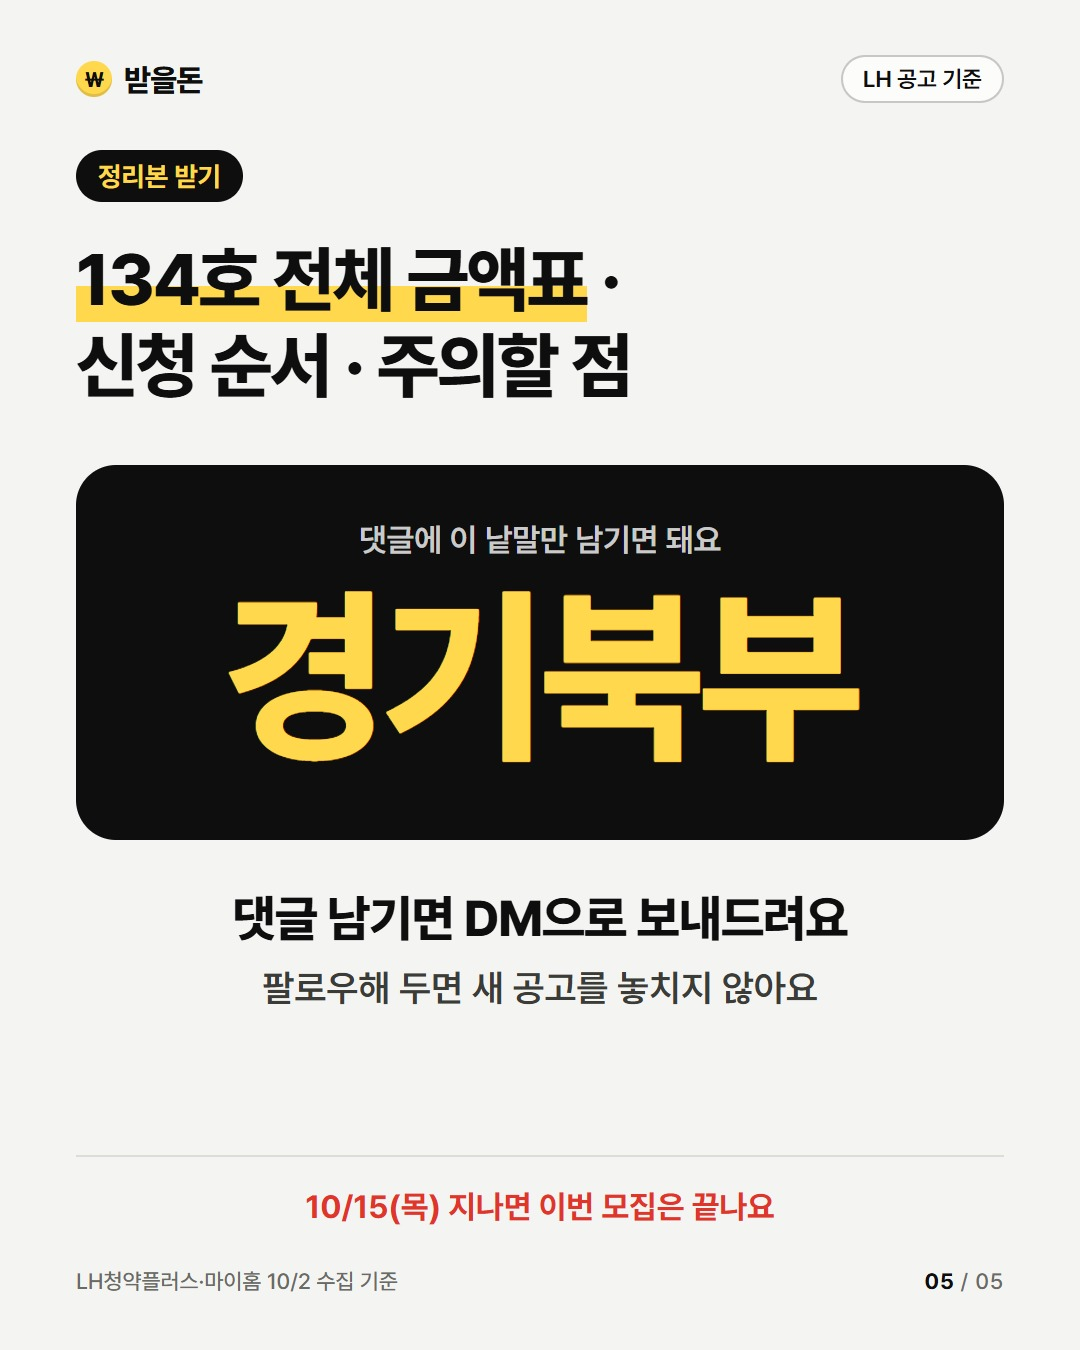
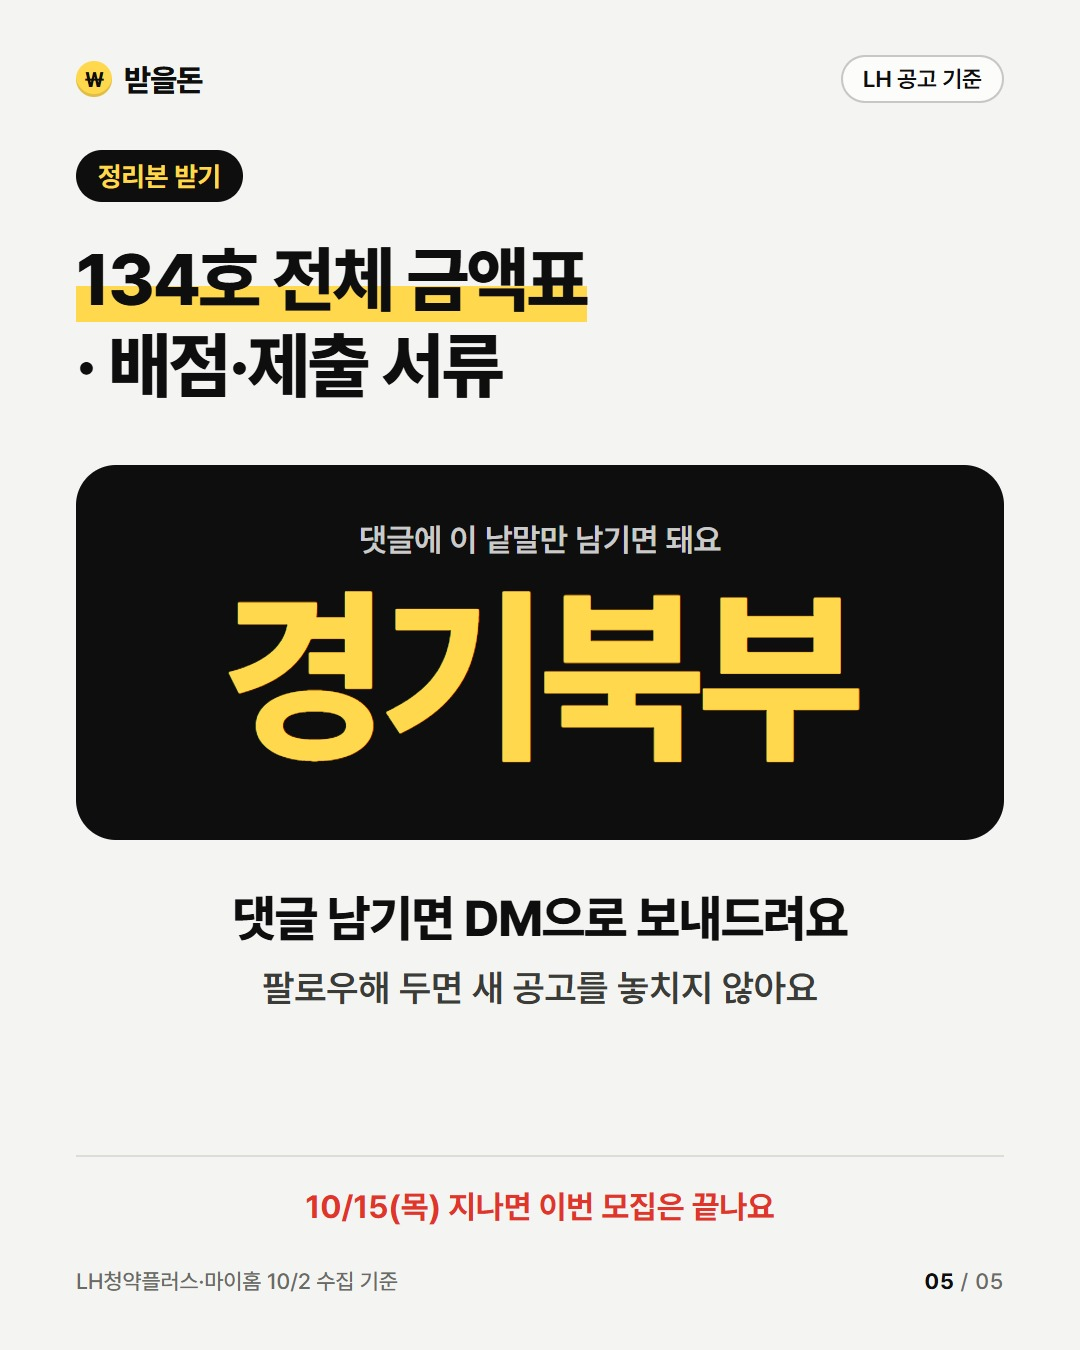
자료 페이지 2015122300020755

Changed region(s): [[0.0611, 0.2489, 0.5806, 0.3111], [0.55, 0.1867, 0.5806, 0.2178]]

diff --git a/n/2015122300020755.html b/n/2015122300020755.html
@@ -12,7 +12,8 @@ ul{padding-left:1.2em}li{margin:.35em 0}.ref{font-size:.8em;color:#777;backgroun
 <h2>접수 방법</h2><ul><li><b>인터넷</b> 10/15(목) 오후 4시 마감 <span class="ref">공고문 5쪽</span></li><li><b>우편</b> 10/15(목) 마감 · (11787) 경기도 의정부시 산단로76번길 116 1층 LH 경기북부지역본부 주거서비스팀 <span class="ref">공고문 6쪽</span></li></ul>
 <h2>신청 순서</h2><ol><li>LH청약플러스(apply.lh.or.kr) 접속</li><li>공고 찾아 열기 → 첨부 공고문(PDF) 확인</li><li>인터넷 접수 — 10/15(목) 오후 4시까지</li></ol>
 <h2>놓치기 쉬운 것</h2><ul><li>마감일은 오후 4시 마감, 신청 후 내용 변경 불가 <span class="ref">공고문 5쪽</span></li><li>우편 신청은 65세 이상 고령자 등만, 기한 내 도착한 등기만 인정 <span class="ref">공고문 5쪽</span></li></ul>
-<h2>공고문 원본</h2><ul><li><a href="https://apply.lh.or.kr/lhapply/lhFile.do?fileid=68755904">공고문 PDF (LH)</a></li><li><a href="https://apply.lh.or.kr/lhapply/apply/wt/wrtanc/selectWrtancInfo.do?panId=2015122300020755&amp;ccrCnntSysDsCd=03&amp;uppAisTpCd=13&amp;aisTpCd=26&amp;mi=1026">LH청약플러스 공고 페이지</a></li></ul>
+<h2>어떻게 뽑나요</h2><ul><li>배점을 더한 총점이 높은 순으로 뽑고, 점수가 같으면 추첨해요 <span class="ref">공고문 3쪽</span></li><li>2년 이내 출생한 자녀나 태아가 있으면 2점을 받아요 <span class="ref">공고문 3쪽</span></li><li>자녀 수 배점은 태아를 포함한 미성년 자녀만 세요 <span class="ref">공고문 3쪽</span></li><li>미성년 자녀가 2인이면 2점을 받아요 <span class="ref">공고문 15쪽</span></li><li>당첨자가 들어갈 동·호는 무작위 추첨으로 정해요 <span class="ref">공고문 1쪽</span></li></ul><h2>제출 서류</h2><ul><li>서류는 공고일(26.10.01) 이후에 발급한 것만 인정돼요 <span class="ref">공고문 7쪽</span></li><li>공통서류는 주민등록표등본·초본, 가족관계증명서, 개인정보 동의서예요 <span class="ref">공고문 6쪽</span></li><li>등본·초본·가족관계증명서는 주민등록번호 13자리가 다 보이게 발급해요 <span class="ref">공고문 7쪽</span></li><li>배우자와 주민등록이 따로면 배우자 주민등록표등본도 내요 <span class="ref">공고문 9쪽</span></li><li>임신 중이면 공고일 이후 발급한 임신진단서(임신확인서)를 내요 <span class="ref">공고문 9쪽</span></li></ul><h2>접수한 뒤 일정</h2><ul><li>서류제출 대상자는 10.16(금)에 발표해요 <span class="ref">공고문 5쪽</span></li><li>대상자 서류 제출은 10.21(수)까지 온라인으로 해요 <span class="ref">공고문 5쪽</span></li><li>당첨자와 예비입주자 순번은 11.20에 발표해요 <span class="ref">공고문 5쪽</span></li><li>계약한 날부터 90일 안에 입주를 마쳐야 해요 <span class="ref">공고문 5쪽</span></li></ul><h2>문의</h2><ul><li>LH콜센터 1600-1004, 평일 09:00~18:00에 받아요 <span class="ref">공고문 13쪽</span></li><li>경기북부 매입임대 02-6363-0497, 평일 09:00~18:00(점심 12:00~13:00 제외) <span class="ref">공고문 13쪽</span></li></ul><h2>공고문 원본</h2><ul><li><a href="https://apply.lh.or.kr/lhapply/lhFile.do?fileid=68755904">공고문 PDF (LH)</a></li><li><a href="https://apply.lh.or.kr/lhapply/apply/wt/wrtanc/selectWrtancInfo.do?panId=2015122300020755&amp;ccrCnntSysDsCd=03&amp;uppAisTpCd=13&amp;aisTpCd=26&amp;mi=1026">LH청약플러스 공고 페이지</a></li></ul>
 <p class="note">원문과 맞춰 보지 못한 것: 주의 줄 일부 — 이 항목은 이 페이지에 쓰지 않았어요.</p>
+<p class="note">새 공고는 인스타그램 <a href="https://www.instagram.com/getmoney.kr/">@getmoney.kr</a> 에서 마감 전에 알려드려요 · <a href="./">다른 정리 보기</a></p>
 <p class="muted">출처: LH청약플러스·마이홈 2026-10-02 06:31 수집 · 공고문 PDF 원문 대조 · 이 페이지 작성 2026-10-03. 숫자·날짜는 모두 원자료와 대조한 값입니다. 최종 기준은 공고문 원본입니다.</p>
 </body></html>
